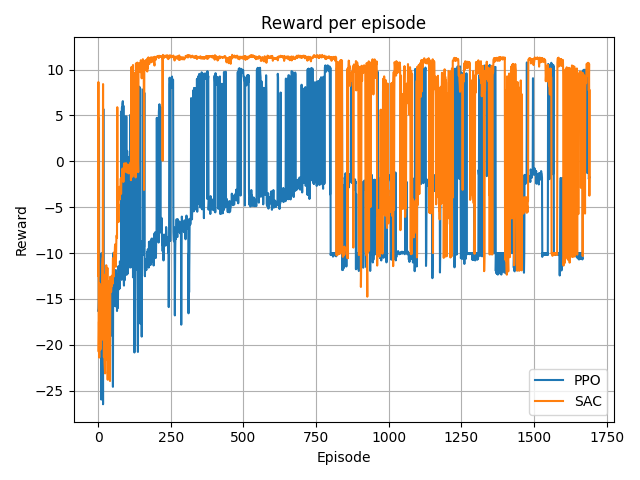
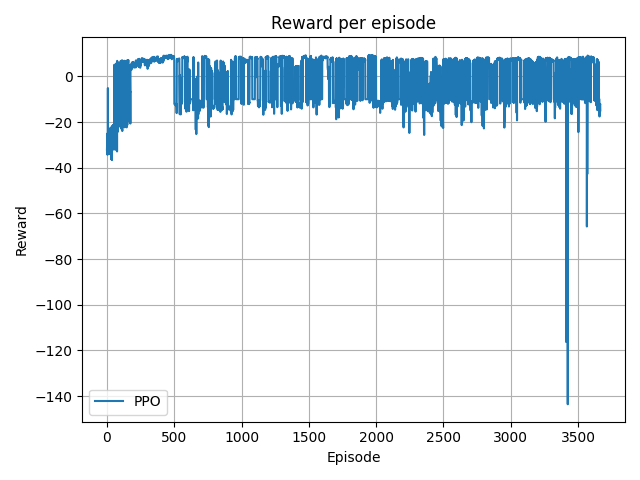
made plots for trained politic

diff --git a/velmobil_agent/velmobil_agent/common/visualization.py b/velmobil_agent/velmobil_agent/common/visualization.py
@@ -136,13 +136,13 @@ def plot_evaluation_time_to_goal(dfs: list[tuple[str, pd.DataFrame]],
 
 def visualization():
     plot_folder = 'src/VELMOBIL_Troszczynski_Piecha/velmobil_agent/plots' 
-    dfs = [('PPO', pd.read_csv('src/VELMOBIL_Troszczynski_Piecha/velmobil_agent/logs/training_logs/PPO_10112026_2221.csv')), ('SAC', pd.read_csv('src/VELMOBIL_Troszczynski_Piecha/velmobil_agent/logs/training_logs/SAC_09112026_2123.csv'))]
-    eval_dfs = [('PPO', pd.read_csv('src/VELMOBIL_Troszczynski_Piecha/velmobil_agent/logs/evaluation_logs/PPO_11112026_0020.csv'))]
+    dfs = [('PPO', pd.read_csv('src/VELMOBIL_Troszczynski_Piecha/velmobil_agent/logs/training_logs/PPO_15112026_1323.csv'))]
+    eval_dfs = [('PPO', pd.read_csv('src/VELMOBIL_Troszczynski_Piecha/velmobil_agent/logs/evaluation_logs/PPO_15112026_2240.csv'))]
     plot_rewards(dfs = dfs, save_path = f'{plot_folder}/training_plots/RewardsPerEpisode_2.png', smoothing_window = 1)
     plot_success_rate(dfs = dfs, save_path = f'{plot_folder}/training_plots/SuccessRatePerEpisode_2.png')
     plot_time_to_goal(dfs = dfs, save_path = f'{plot_folder}/training_plots/TimeToGoalPerEpisode_2.png')
-    plot_evaluation_outcome(dfs = eval_dfs, save_path = f'{plot_folder}/inference_plots/OutcomePerStage.png')
-    plot_evaluation_time_to_goal(dfs = eval_dfs, save_path = f'{plot_folder}/inference_plots/TimeToGoalPerStage.png')
+    plot_evaluation_outcome(dfs = eval_dfs, save_path = f'{plot_folder}/inference_plots/OutcomePerStage_2.png')
+    plot_evaluation_time_to_goal(dfs = eval_dfs, save_path = f'{plot_folder}/inference_plots/TimeToGoalPerStage_2.png')
 
 
 if __name__ == "__main__":

diff --git a/velmobil_agent/velmobil_agent/inference/agent_inference.py b/velmobil_agent/velmobil_agent/inference/agent_inference.py
@@ -9,7 +9,7 @@ from velmobil_agent.common.Model import Model
 
 TIME = datetime.now().strftime('%d%m%Y_%H%M')
 TRAINED_POLICIES_FOLDER = "src/VELMOBIL_Troszczynski_Piecha/velmobil_agent/trained_policies"
-MODEL_LOAD_PATH = os.path.join(TRAINED_POLICIES_FOLDER, "PPO_trained_policy_10112026_2221.zip")
+MODEL_LOAD_PATH = os.path.join(TRAINED_POLICIES_FOLDER, "PPO_trained_policy_15112026_1323.zip")
 
 EVALUATION_SAVE_PATH = f"src/VELMOBIL_Troszczynski_Piecha/velmobil_agent/logs/evaluation_logs/PPO_{TIME}.csv"
 
